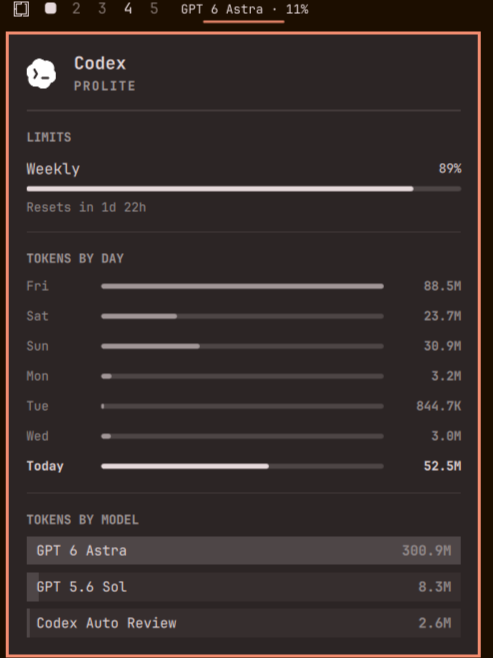
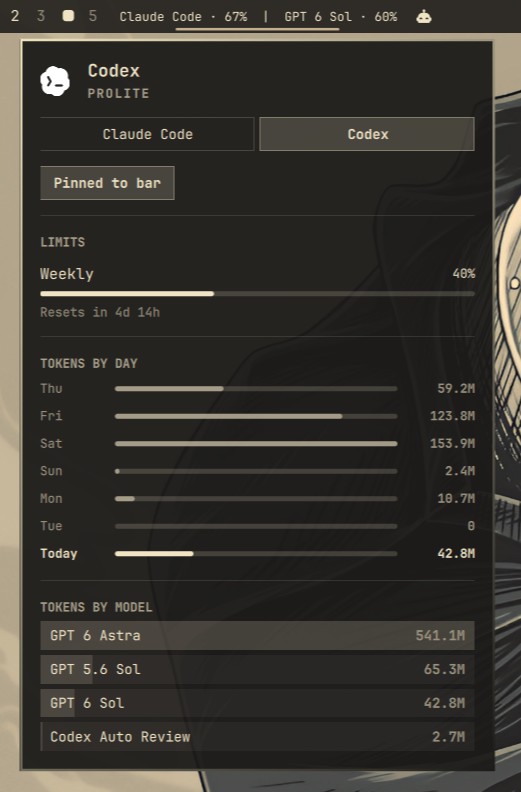
docs: refresh plugin screenshots for marketplace

diff --git a/README.md b/README.md
@@ -7,7 +7,12 @@ An AI usage widget made for Omarchy. Keep an eye on subscription limits, reset t
 Derived from Omarchy's `omarchy.agents` widget. The bar can show one or several provider summaries, while the popup shows any provider record supplied by Omarchy.
 
 <p align="center">
-  <img src="preview.png" alt="OmaGoblin panel showing Codex weekly quota, daily token usage and usage by model" width="493">
+  <img src="preview.png" alt="OmaGoblin Codex panel with provider tabs, quota, daily tokens and model usage" width="493">
+</p>
+
+<p align="center">
+  <img src="assets/screenshots/claude-code-pinned.png" alt="Claude Code panel pinned to the bar" width="300">
+  <img src="assets/screenshots/claude-code-unpinned.png" alt="Claude Code panel with the pin-to-bar option" width="300">
 </p>
 
 ## Features
